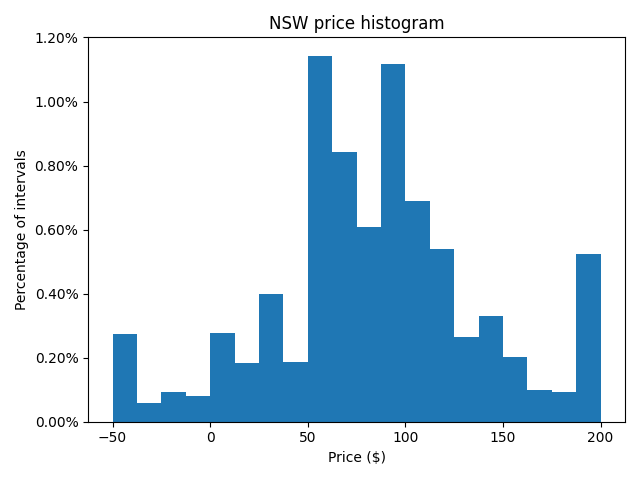
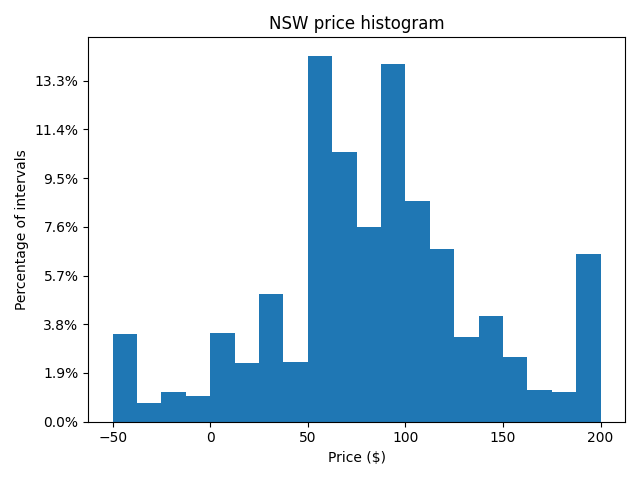
fixed histograms to show percentage of intervals

diff --git a/price_sweep.py b/price_sweep.py
@@ -35,11 +35,11 @@ for folder in folders:
     demand = data['TOTALDEMAND'].values
     
     clipped_prices = np.clip(prices, -50, 200)
-    plt.hist(clipped_prices, bins=20, density=True)
+    plt.hist(clipped_prices, bins=20)
     plt.title(f'{folder.upper()} price histogram')
     plt.xlabel('Price ($)')
     plt.ylabel('Percentage of intervals')
-    plt.gca().yaxis.set_major_formatter(PercentFormatter(1))
+    plt.gca().yaxis.set_major_formatter(PercentFormatter(12*24*365))
     plt.tight_layout()
     plt.savefig(f'figs/{folder} price histogram')
     plt.clf()
